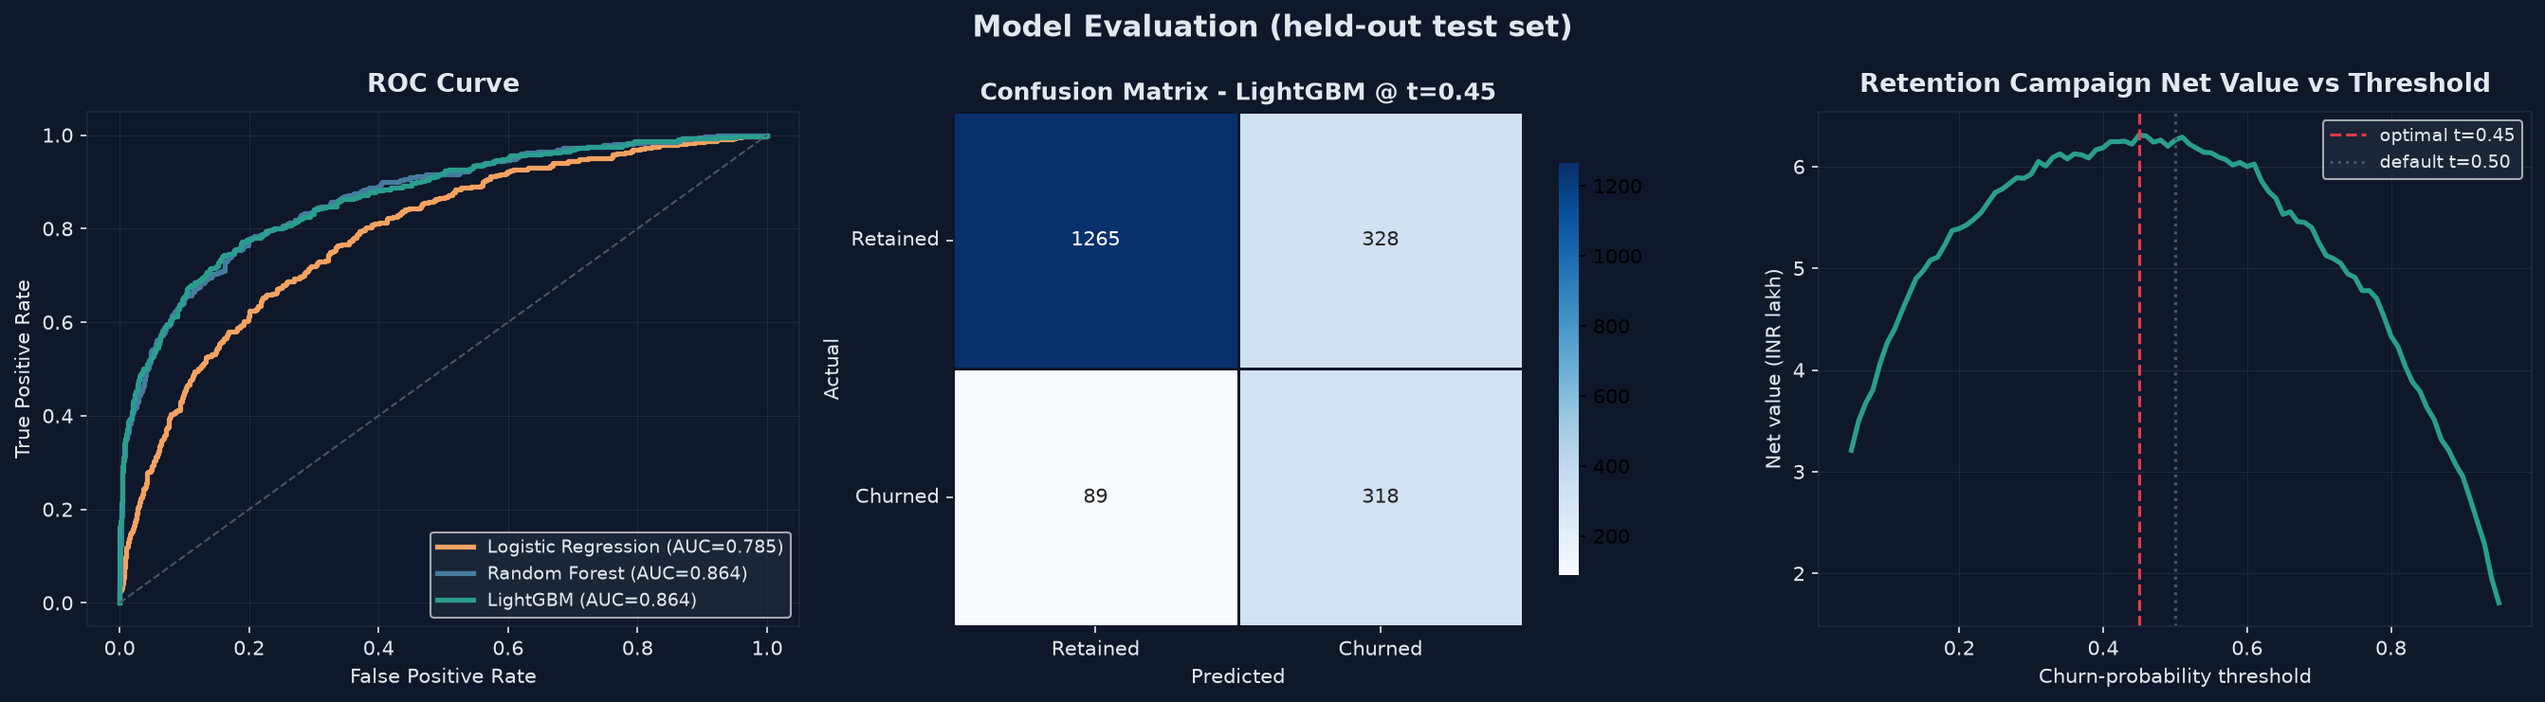
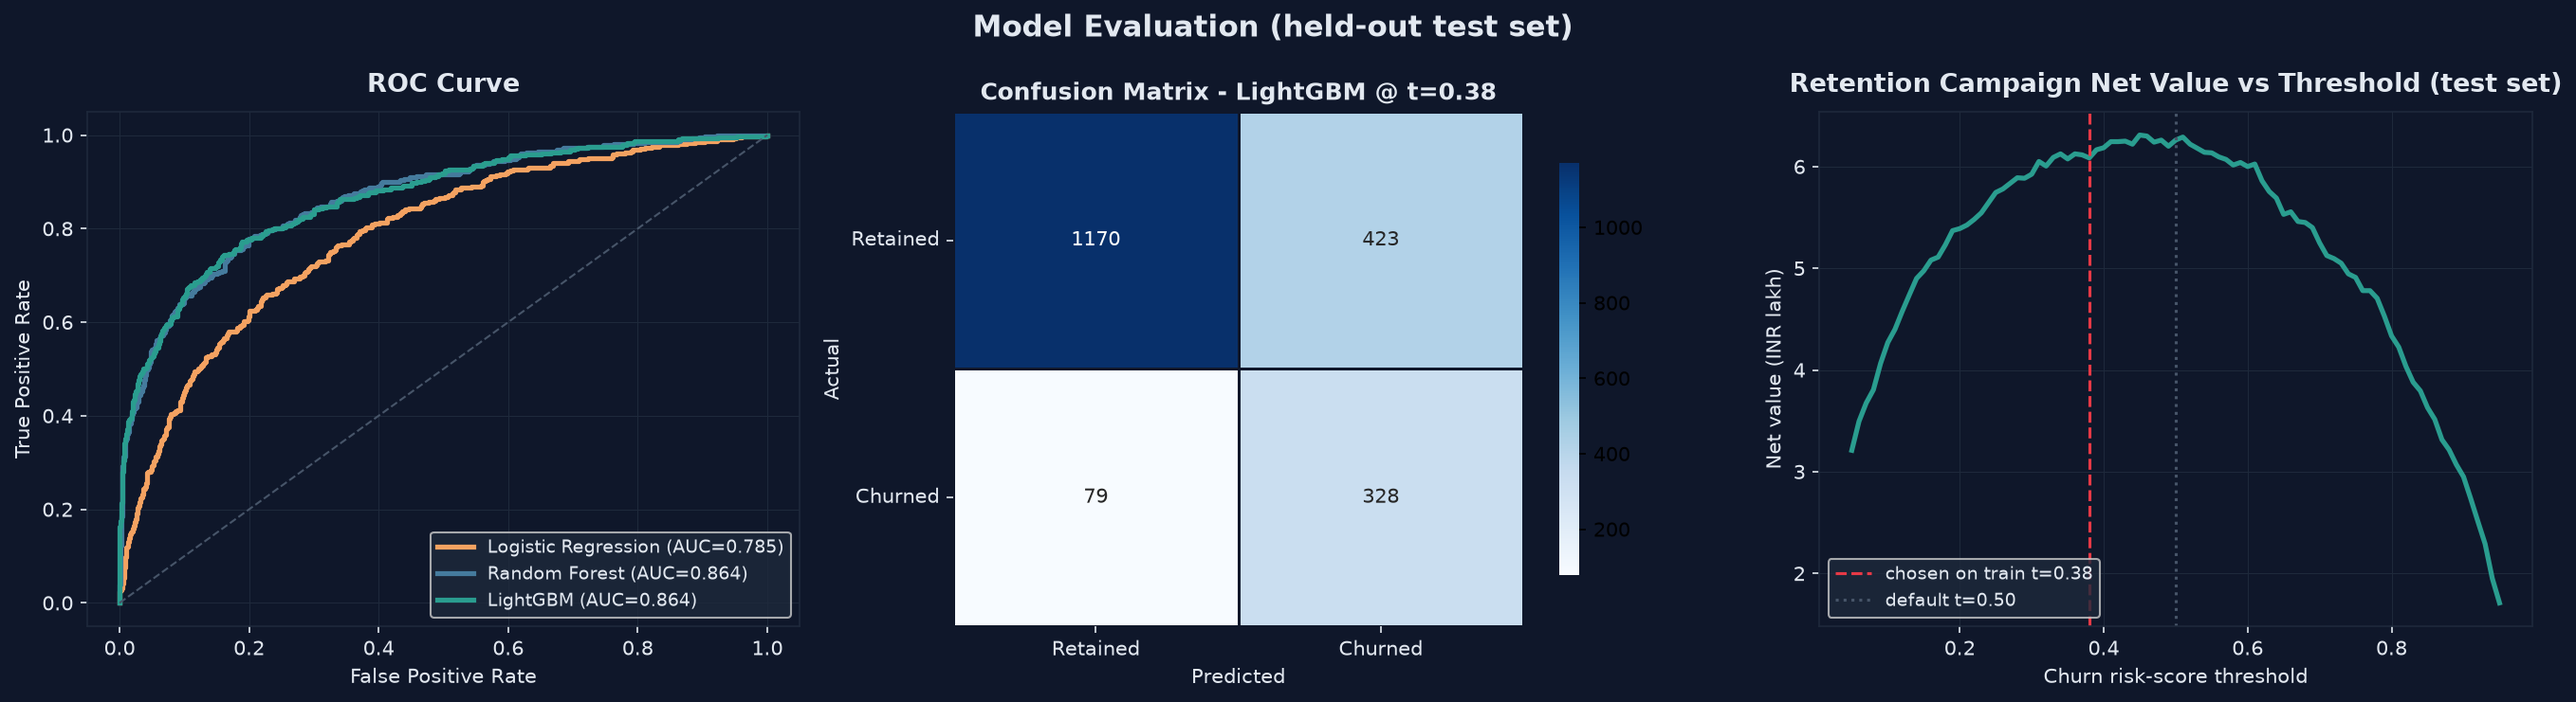
Pick threshold on training folds, label scores honestly, fix dashboard crash
- Choose the contact threshold on out-of-fold training predictions instead
  of the test set (0.38; test-set value INR 6.08 lakh)
- Call model outputs risk scores, since class weighting means they are not
  calibrated probabilities
- Dashboard no longer crashes when filters leave a single customer

diff --git a/dashboard.py b/dashboard.py
@@ -8,7 +8,7 @@ Features:
   ─ Retention campaign economics  (capture, lift, profit-optimal threshold)
   ─ Risk segments vs actual churn  (bar + pie charts)
   ─ Churn drivers: age, products held, activity, feature importance
-  ─ Individual customer look-up with churn probability gauge
+  ─ Individual customer look-up with churn risk-score gauge
   ─ Raw scored data table with search & download
 
 Run:
@@ -122,7 +122,7 @@ seg_options  = ["All"] + SEG_ORDER
 sel_geo  = st.sidebar.selectbox("Geography",     geo_options)
 sel_seg  = st.sidebar.selectbox("Risk Segment",  seg_options)
 prob_min, prob_max = st.sidebar.slider(
-    "Churn Probability Range", 0.0, 1.0, (0.0, 1.0), 0.01
+    "Churn Risk Score Range", 0.0, 1.0, (0.0, 1.0), 0.01
 )
 
 st.sidebar.markdown("---")
@@ -177,12 +177,14 @@ a = biz["assumptions"]
 b1, b2, b3, b4 = st.columns(4)
 b1.metric("Churners in top 10% of scores", f"{biz['top10_capture']:.0%}",
           delta=f"{biz['lift_top10']:.1f}x better than random")
-b2.metric("Profit-optimal threshold", f"{biz['optimal_threshold']:.2f}")
+b2.metric("Contact threshold", f"{biz['optimal_threshold']:.2f}")
 b3.metric("Customers to contact", f"{biz['customers_contacted']:,}",
           delta=f"reaches {biz['churners_reached']} churners", delta_color="off")
 b4.metric("Campaign net value", f"₹{biz['net_value_optimal_inr']/1e5:.2f} L",
           delta=f"vs ₹{biz['net_value_contact_all_inr']/1e5:.2f} L contacting everyone",
           delta_color="off")
+st.caption("Risk scores rank customers; they are not calibrated probabilities (class weighting pushes them up). "
+           "The contact threshold was chosen on training data and is reported here on the test set.")
 st.caption(f"Assumptions (editable in churn_model.py): contacting a customer costs ₹{a['contact_cost_inr']:,}, "
            f"a retained churner is worth ₹{a['customer_value_inr']:,}, and the offer retains "
            f"{a['save_rate']:.0%} of the churners it reaches.")
@@ -251,8 +253,8 @@ with col_d:
         color_discrete_map=SEG_COLORS,
         category_orders={"risk_segment": SEG_ORDER},
         opacity=0.65,
-        title="Age vs Churn Probability",
-        labels={"age": "Age", "churn_prob": f"Churn Probability ({BEST})"},
+        title="Age vs Churn Risk Score",
+        labels={"age": "Age", "churn_prob": f"Churn risk score ({BEST})"},
     )
     fig_scatter.update_layout(**PLOTLY_LAYOUT)
     st.plotly_chart(fig_scatter, width="stretch")
@@ -264,14 +266,14 @@ with col_e:
     fig_prod = px.bar(
         prod, x="num_products", y="churn_prob", color="member", barmode="group",
         color_discrete_map={"Inactive": RED, "Active": GREEN},
-        title="Avg Predicted Churn by Products Held and Activity (%)",
-        labels={"num_products": "Number of products", "churn_prob": "Avg P(churn) %", "member": ""},
+        title="Avg Risk Score by Products Held and Activity",
+        labels={"num_products": "Number of products", "churn_prob": "Avg risk score (x100)", "member": ""},
     )
     fig_prod.update_layout(**PLOTLY_LAYOUT)
     st.plotly_chart(fig_prod, width="stretch")
 
 # ═══════════════════════════════════════════════════════════════════════════════
-# ROW 3 — Feature importance + probability histogram
+# ROW 3 — Feature importance + risk-score histogram
 # ═══════════════════════════════════════════════════════════════════════════════
 col_f, col_g = st.columns(2)
 
@@ -290,8 +292,8 @@ with col_g:
     fig_hist = px.histogram(
         df, x="churn_prob", nbins=40,
         color_discrete_sequence=[BLUE],
-        title="Churn Probability Distribution",
-        labels={"churn_prob": f"P(Churn) — {BEST}"},
+        title="Churn Risk Score Distribution",
+        labels={"churn_prob": f"Risk score — {BEST}"},
     )
     fig_hist.add_vline(x=biz["optimal_threshold"], line_dash="dash", line_color=RED,
                        annotation_text=f"Contact threshold ({biz['optimal_threshold']:.2f})",
@@ -307,7 +309,11 @@ st.markdown('<div class="section-title">🔍 Individual Customer Risk Look-up</d
             unsafe_allow_html=True)
 
 ranked   = df.sort_values("churn_prob", ascending=False).reset_index(drop=True)
-cust_idx = st.slider("Customer rank (1 = highest risk in current filter)", 1, len(ranked), 1) - 1
+if len(ranked) > 1:
+    cust_idx = st.slider("Customer rank (1 = highest risk in current filter)", 1, len(ranked), 1) - 1
+else:
+    cust_idx = 0
+    st.caption("Only one customer matches the current filters.")
 row      = ranked.iloc[cust_idx]
 prob     = row["churn_prob"]
 prob_lr  = row["churn_prob_lr"]
@@ -328,10 +334,10 @@ with c1:
       <table style="width:100%;font-size:14px;color:#CBD5E1;">
         <tr><td style="padding:6px 0;color:#64748B;">Risk Segment</td>
             <td>{seg_badge}</td></tr>
-        <tr><td style="padding:6px 0;color:#64748B;">{BEST} Churn Probability</td>
+        <tr><td style="padding:6px 0;color:#64748B;">{BEST} Risk Score</td>
             <td style="color:{RED if prob>0.6 else AMBER if prob>0.3 else GREEN};font-weight:700;">
               {prob:.2%}</td></tr>
-        <tr><td style="padding:6px 0;color:#64748B;">{BASE} Churn Probability</td>
+        <tr><td style="padding:6px 0;color:#64748B;">{BASE} Risk Score</td>
             <td>{prob_lr:.2%}</td></tr>
         <tr><td style="padding:6px 0;color:#64748B;">Age / Gender / Country</td>
             <td>{int(row['age'])} / {row['gender']} / {row['geography']}</td></tr>

diff --git a/churn_model.py b/churn_model.py
@@ -26,7 +26,8 @@ import matplotlib.pyplot as plt
 import matplotlib.ticker as mticker
 import seaborn as sns
 
-from sklearn.model_selection  import train_test_split, StratifiedKFold, cross_val_score
+from sklearn.model_selection  import train_test_split, StratifiedKFold, cross_val_score, cross_val_predict
+from sklearn.base             import clone
 from sklearn.preprocessing    import StandardScaler, OneHotEncoder
 from sklearn.linear_model     import LogisticRegression
 from sklearn.ensemble         import RandomForestClassifier
@@ -271,20 +272,27 @@ top10_capture = capture_at(best_prob, 0.10)
 top20_capture = capture_at(best_prob, 0.20)
 lift_top10    = top10_capture / 0.10
 
-def net_value(prob, t):
+def net_value(prob, t, y):
     contact = prob >= t
-    tp = (contact & (y_true == 1)).sum()
+    tp = (contact & (y == 1)).sum()
     return tp * SAVE_RATE * CUSTOMER_VALUE - contact.sum() * CONTACT_COST, int(contact.sum()), int(tp)
 
+# The threshold is chosen on out-of-fold predictions for the TRAINING set, so the
+# test set is only used to report the result, never to pick it.
+oof_prob = cross_val_predict(clone(models[BEST]), X_train, y_train, cv=cv,
+                             method="predict_proba", n_jobs=-1)[:, 1]
 thresholds = np.round(np.arange(0.05, 0.96, 0.01), 2)
-curve = [(t, *net_value(best_prob, t)) for t in thresholds]
-best_t, best_net, best_n, best_tp = max(curve, key=lambda r: r[1])
-net_at_05, n_at_05, _ = net_value(best_prob, 0.5)
+train_curve = [(t, *net_value(oof_prob, t, y_train.values)) for t in thresholds]
+best_t = max(train_curve, key=lambda r: r[1])[0]
+
+curve = [(t, *net_value(best_prob, t, y_true)) for t in thresholds]   # test set, for reporting
+best_net, best_n, best_tp = net_value(best_prob, best_t, y_true)
+net_at_05, n_at_05, _ = net_value(best_prob, 0.5, y_true)
 contact_all_net = y_true.sum() * SAVE_RATE * CUSTOMER_VALUE - len(y_true) * CONTACT_COST
 
 print(f"   Top-10% riskiest customers contain {top10_capture:.1%} of churners "
       f"(lift {lift_top10:.1f}x vs random)")
-print(f"   Profit-optimal threshold: {best_t:.2f} -> contact {best_n} customers, "
+print(f"   Profit-optimal threshold (chosen on training folds): {best_t:.2f} -> test set: contact {best_n} customers, "
       f"net value INR {best_net:,.0f} (vs INR {net_at_05:,.0f} at 0.50, "
       f"INR {contact_all_net:,.0f} if everyone is contacted)")
 
@@ -322,11 +330,11 @@ axes[1].set_yticklabels(["Retained","Churned"], color=TEXT_CLR, rotation=0)
 
 axes[2].plot([c[0] for c in curve], [c[1]/1e5 for c in curve], color="#2A9D8F", linewidth=2.5)
 axes[2].axvline(best_t, color="#E63946", linestyle="--", linewidth=1.5,
-                label=f"optimal t={best_t:.2f}")
+                label=f"chosen on train t={best_t:.2f}")
 axes[2].axvline(0.5, color="#475569", linestyle=":", linewidth=1.5, label="default t=0.50")
 axes[2].legend(facecolor=GRID_CLR, labelcolor=TEXT_CLR, fontsize=9)
-style_axes(axes[2], "Retention Campaign Net Value vs Threshold",
-           "Churn-probability threshold", "Net value (INR lakh)")
+style_axes(axes[2], "Retention Campaign Net Value vs Threshold (test set)",
+           "Churn risk-score threshold", "Net value (INR lakh)")
 
 plt.tight_layout()
 plt.savefig(f"{REPORTS_DIR}/model_evaluation.png", dpi=150,
@@ -394,9 +402,11 @@ metrics = {
         "top20_capture": round(float(top20_capture), 4),
         "lift_top10": round(float(lift_top10), 2),
         "optimal_threshold": float(best_t),
+        "threshold_chosen_on": "out-of-fold predictions on the training set",
+        "mean_risk_score_test": round(float(best_prob.mean()), 4),
         "customers_contacted": best_n,
         "churners_reached": best_tp,
-        "net_value_optimal_inr": float(best_net),
+        "net_value_optimal_inr": round(float(best_net)),
         "net_value_at_0_5_inr": float(net_at_05),
         "net_value_contact_all_inr": float(contact_all_net),
     },

diff --git a/report_generator.py b/report_generator.py
@@ -8,7 +8,7 @@ around them is a fixed template. Nothing is hard-coded or invented.
 
 This module reads:
   - data/Churn_Modelling.csv      (full portfolio, for segment churn rates)
-  - data/scored_customers.csv     (held-out test set with churn probabilities)
+  - data/scored_customers.csv     (held-out test set with churn risk scores)
   - reports/metrics.json          (model scores and campaign economics)
 
 And produces:
@@ -133,7 +133,8 @@ def build_markdown(ins):
     lines += [
         "",
         "## 4. Recommended campaign",
-        f"- Contact customers with predicted churn probability ≥ **{biz['optimal_threshold']:.2f}**: "
+        f"- Contact customers with a churn risk score ≥ **{biz['optimal_threshold']:.2f}** (threshold chosen on "
+        f"training data, results below are on the test set): "
         f"{biz['customers_contacted']:,} of 2,000 test customers, reaching {biz['churners_reached']} "
         f"actual churners.",
         f"- Prioritise **inactive members aged 50+** ({ins['old_inactive']['mean']:.0%} churn, "
@@ -149,6 +150,9 @@ def build_markdown(ins):
         f"- Campaign economics assume ₹{a['contact_cost_inr']:,} per contact, ₹{a['customer_value_inr']:,} "
         f"per retained churner and a {a['save_rate']:.0%} save rate. These are placeholders, not "
         "figures from the data; change them in `churn_model.py`.",
+        f"- Risk scores rank customers well but are not calibrated probabilities: class weighting lifts the "
+        f"average test score to {biz['mean_risk_score_test']:.2f} against an actual churn rate of "
+        f"{ins['seg_actual']['mean'].mul(ins['seg_actual']['count']).sum() / ins['seg_actual']['count'].sum():.2f}.",
         "- The dataset is a single snapshot, so the model predicts who churned, not when. A production "
         "model would need monthly behavioural history.",
         "- Gender and age are legally sensitive in credit and marketing decisions; they are used here "

diff --git a/README.md b/README.md
@@ -1,6 +1,6 @@
 # 📊 Customer Churn Prediction — Banking Use Case
 
-> **Real data · LightGBM vs Random Forest vs Logistic Regression · Test AUC 0.864 · Profit-optimised retention targeting**
+> **Real data · LightGBM vs Random Forest vs Logistic Regression · Test AUC 0.864 · Profit-based retention targeting**
 
 An end-to-end churn project on **10,000 real, anonymised customers of a European retail bank**. It covers the full chain: EDA, feature engineering, model comparison, a profit-based decision threshold, an interactive Streamlit dashboard and an auto-generated executive briefing.
 
@@ -16,18 +16,18 @@ An end-to-end churn project on **10,000 real, anonymised customers of a European
 | **PR-AUC** | 0.716 (a random model scores 0.20) |
 | **Top-10% capture** | The riskiest 10% of customers contain **41%** of all churners (**4.1x lift**) |
 | **Top-20% capture** | 63% of churners |
-| **Campaign value** | ₹6.31 lakh per 2,000 customers with model targeting vs ₹2.21 lakh contacting everyone* |
+| **Campaign value** | ₹6.08 lakh per 2,000 customers with model targeting vs ₹2.21 lakh contacting everyone* |
 
 \*Under stated assumptions: ₹500 per contact, ₹10,000 per retained churner, 30% of reached churners retained. These are placeholders you can change at the top of `churn_model.py`.
 
-All numbers come from a 2,000-customer test set that is never used for training or model selection.
+All numbers come from a 2,000-customer test set that is never used for training, model selection or choosing the threshold.
 
 ### Does the risk score hold up?
 | Predicted segment | Customers | Actual churn |
 |---|---|---|
-| High Risk (p > 0.60) | 462 | 60.0% |
+| High Risk (score > 0.60) | 462 | 60.0% |
 | Medium Risk (0.30–0.60) | 459 | 16.1% |
-| Low Risk (p < 0.30) | 1,079 | 5.2% |
+| Low Risk (score < 0.30) | 1,079 | 5.2% |
 
 ---
 
@@ -49,7 +49,7 @@ All numbers come from a 2,000-customer test set that is never used for training 
 ## 🧠 Design decisions
 
 - **Model selection on CV, not the test set.** LightGBM and Random Forest tie on test AUC (0.864). LightGBM is chosen because it wins on cross-validated AUC and PR-AUC, so the test set stays a clean final check.
-- **Threshold chosen by money, not by 0.5.** The pipeline sweeps thresholds and picks the one that maximises campaign net value. Accuracy treats a missed churner and a wasted call as equally bad, but they cost very different amounts.
+- **Threshold chosen by money, on training data only.** The pipeline sweeps thresholds on out-of-fold predictions for the training set and picks the one with the highest campaign net value (0.38), then reports it on the test set. An earlier version picked the threshold on the test set itself, which made it look better than it was. On the test set the value curve is nearly flat between 0.3 and 0.6, so the gain comes from targeting at all (₹6.08 lakh vs ₹2.21 lakh), not from the exact cut-off.
 - **Ranking metrics for a ranking problem.** A retention team works down a list, so top-decile capture and lift matter more than accuracy.
 - **Class imbalance** (20% churners) is handled with class weights rather than synthetic oversampling.
 - **Gain-based feature importance** for LightGBM. Split-count importance overrates continuous features such as salary.
@@ -75,7 +75,7 @@ customer-churn-prediction/
 ├── run_all.bat              # Runs the whole pipeline, then opens the dashboard
 ├── data/
 │   ├── Churn_Modelling.csv      # Source data (10,000 customers)
-│   └── scored_customers.csv     # Test set with churn probabilities and campaign flag
+│   └── scored_customers.csv     # Test set with churn risk scores and campaign flag
 ├── models/                  # Trained pipelines (.pkl)
 └── reports/
     ├── metrics.json             # All scores and campaign economics
@@ -89,7 +89,7 @@ customer-churn-prediction/
 ```bash
 pip install -r requirements.txt
 python churn_model.py        # trains models, writes reports/ and models/
-python report_generator.py   # writes reports/executive_report.md
+PYTHONIOENCODING=utf-8 python report_generator.py   # writes reports/executive_report.md (the env var avoids a ₹ encoding error on Windows consoles)
 streamlit run dashboard.py   # opens http://localhost:8501
 ```
 On Windows, `run_all.bat` does all three.
@@ -98,6 +98,7 @@ On Windows, `run_all.bat` does all three.
 
 - The data is a single snapshot, so the model predicts *who* churns, not *when*. A production model would use monthly behaviour history.
 - Campaign economics use assumed costs and save rates; a real rollout should measure the save rate with an A/B test.
+- Scores rank customers but are not calibrated probabilities: class weighting lifts the average test score to 0.35 against 20% actual churn. Treat them as risk scores.
 - Age and gender are predictive but sensitive; a deployed model would need a fairness review.
 
 ---

diff --git a/reports/executive_report.md b/reports/executive_report.md
@@ -5,7 +5,7 @@
 - **20.4%** of customers churned.
 - A LightGBM model ranks customers by churn risk with a test AUC of **0.864** (5-fold CV 0.863 ± 0.011), versus 0.785 for a Logistic Regression baseline.
 - Contacting only the riskiest **10%** of customers reaches **41%** of all churners — **4.1x** better than picking customers at random.
-- Under the stated campaign assumptions, targeting by model score is worth **₹6.31 lakh** per 2,000 customers, versus ₹2.21 lakh for contacting everyone.
+- Under the stated campaign assumptions, targeting by model score is worth **₹6.08 lakh** per 2,000 customers, versus ₹2.21 lakh for contacting everyone.
 
 ## 2. Who churns
 | Segment | Churn rate | Compared with |
@@ -29,12 +29,13 @@ Actual churn in the held-out test set, by predicted risk segment:
 | Low Risk | 1,079 | 5.2% |
 
 ## 4. Recommended campaign
-- Contact customers with predicted churn probability ≥ **0.45**: 646 of 2,000 test customers, reaching 318 actual churners.
+- Contact customers with a churn risk score ≥ **0.38** (threshold chosen on training data, results below are on the test set): 751 of 2,000 test customers, reaching 328 actual churners.
 - Prioritise **inactive members aged 50+** (82% churn, n=484) and **customers with 3+ products** (86% churn, n=326) for relationship-manager calls.
 - Investigate the **Germany** portfolio, which churns at 32.4% against 20.4% overall.
 - Run the campaign as an A/B test (hold out a random control group) so the true save rate can be measured and fed back into the threshold.
 
 ## 5. Assumptions and limits
 - Campaign economics assume ₹500 per contact, ₹10,000 per retained churner and a 30% save rate. These are placeholders, not figures from the data; change them in `churn_model.py`.
+- Risk scores rank customers well but are not calibrated probabilities: class weighting lifts the average test score to 0.35 against an actual churn rate of 0.20.
 - The dataset is a single snapshot, so the model predicts who churned, not when. A production model would need monthly behavioural history.
 - Gender and age are legally sensitive in credit and marketing decisions; they are used here for analysis, and a deployed model would need a fairness review.
